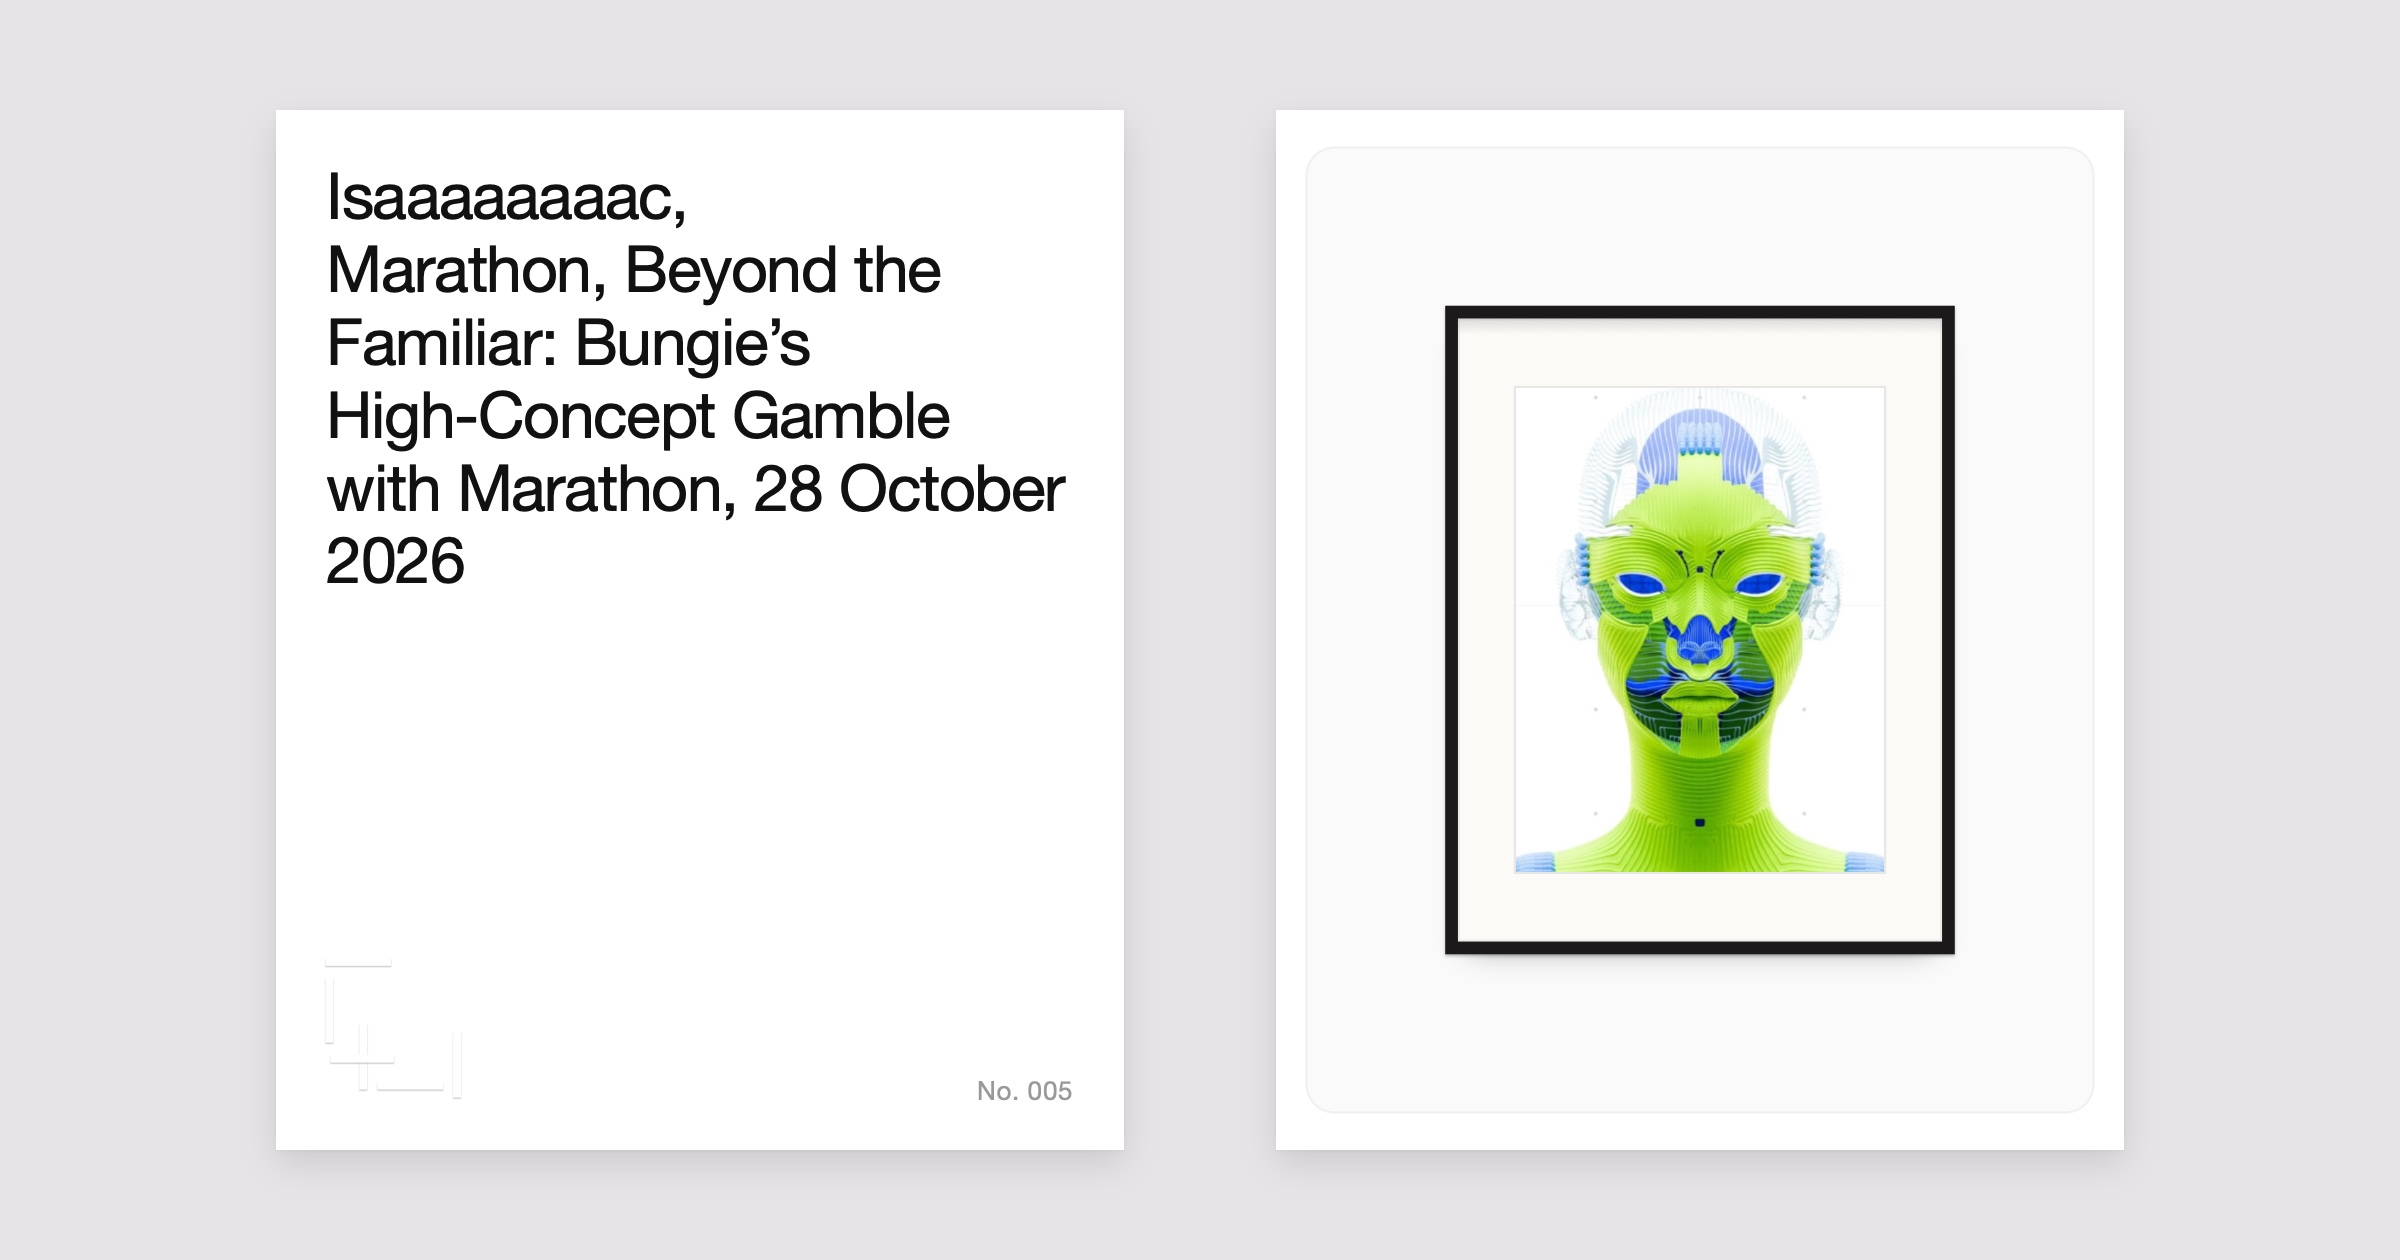
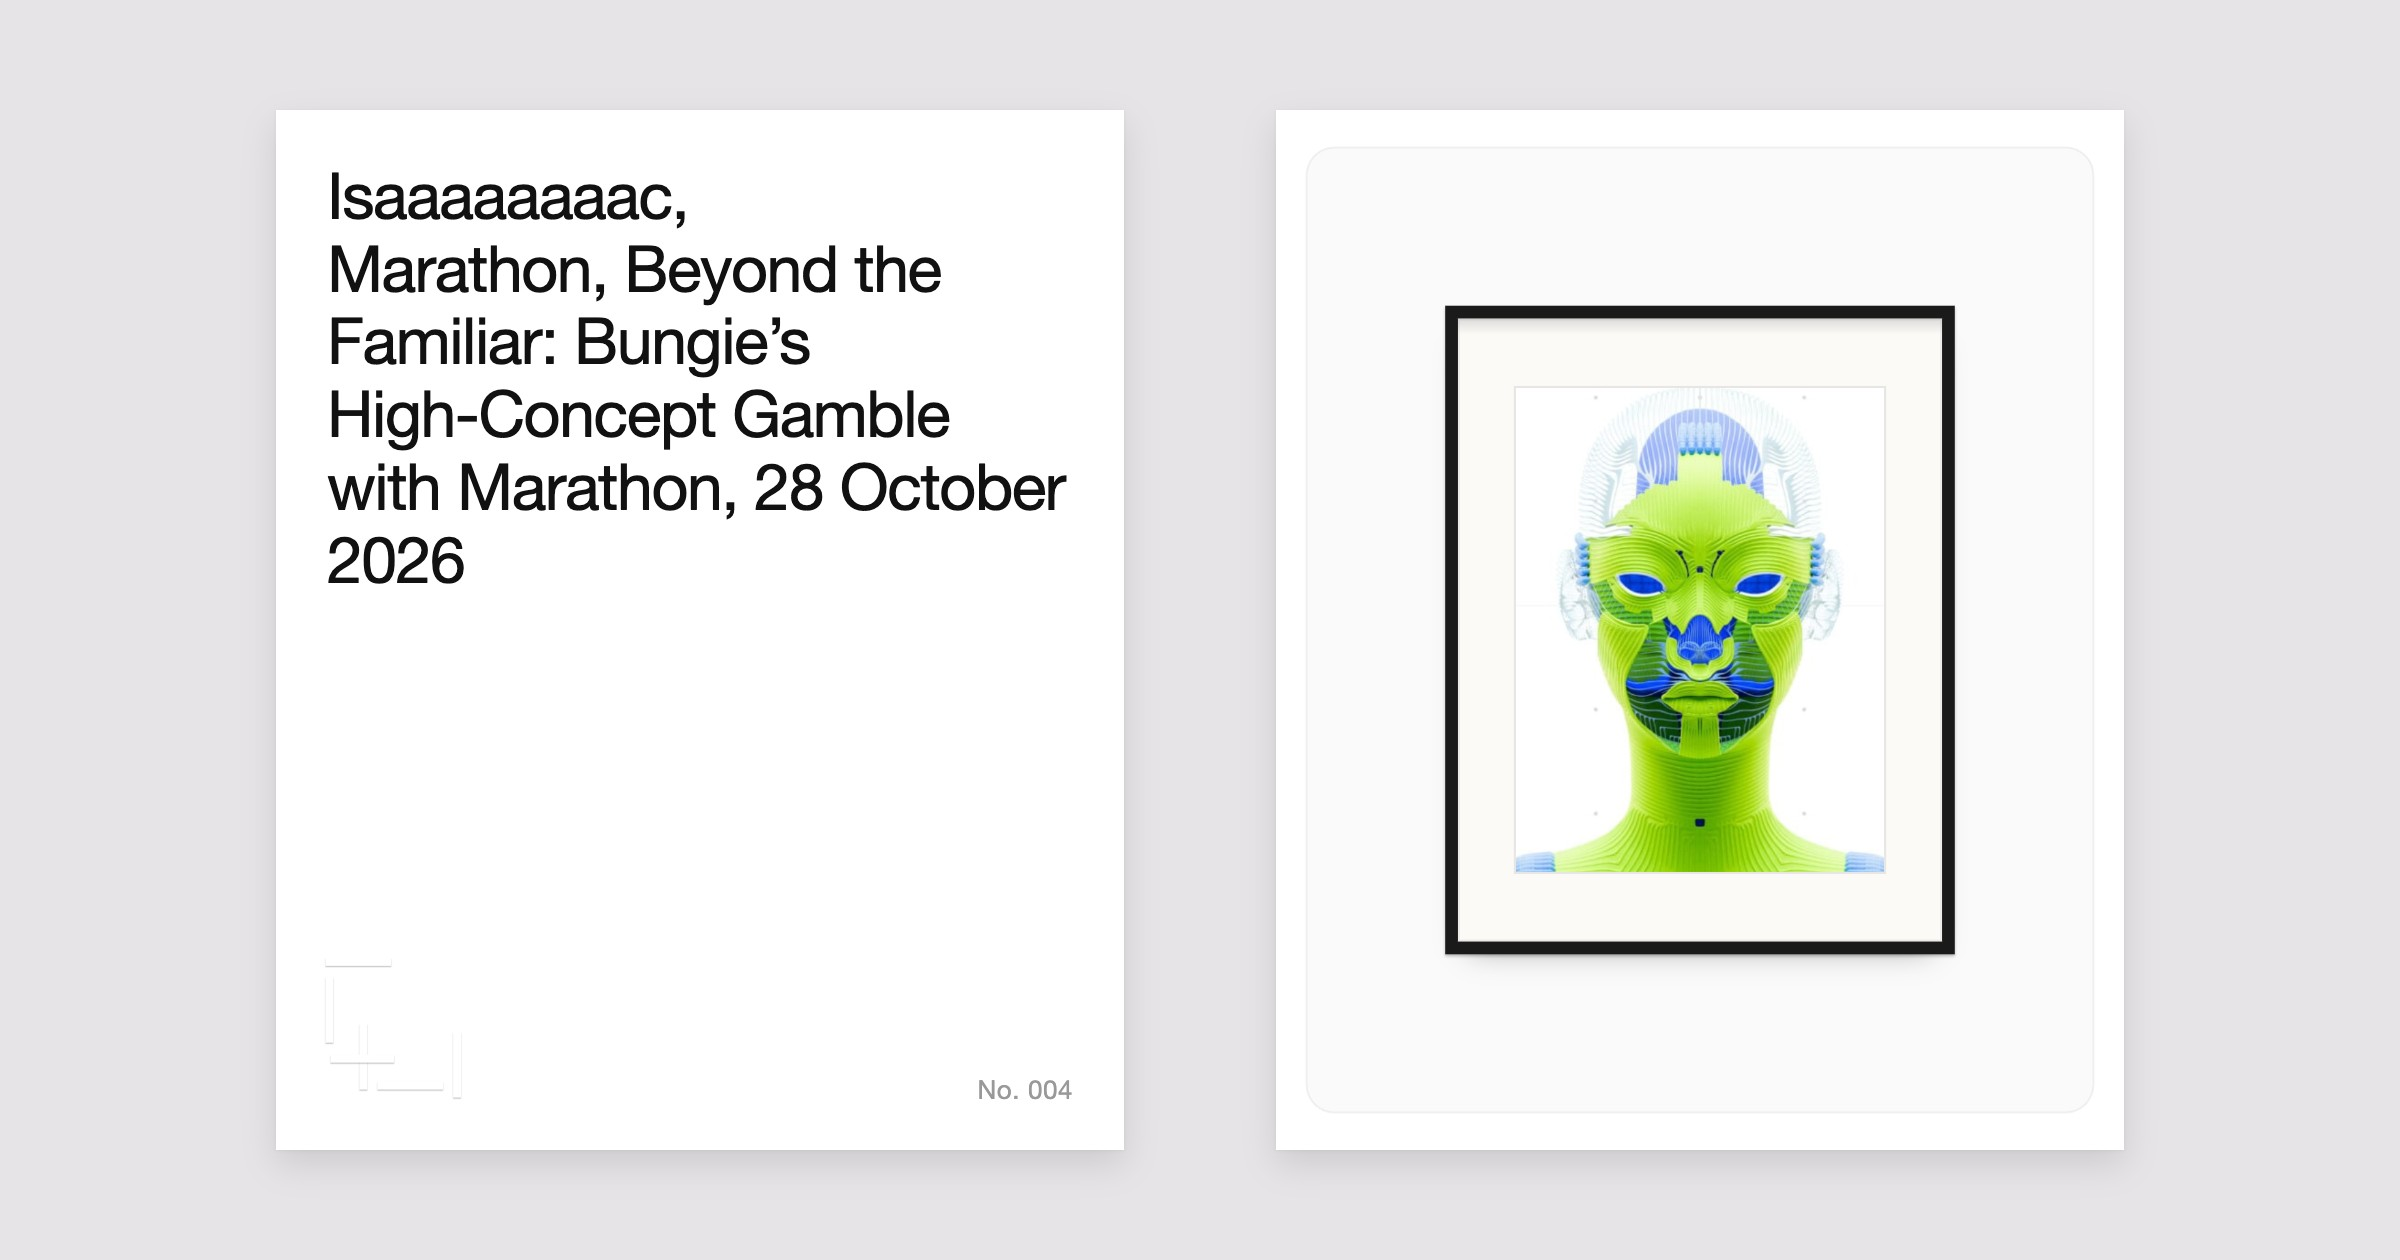
Curation: Marathon becomes No. 004 (the deleted Untitled had taken it); its preview redrawn; Studio gives each published preview picture a fresh address

diff --git a/curation/marathon/index.html b/curation/marathon/index.html
@@ -12,13 +12,13 @@
   <meta property="og:title" content="Marathon" />
   <meta property="og:description" content="Isaaaaaaaac — Beyond the Familiar: Bungie’s High-Concept Gamble with Marathon" />
   <meta property="og:url" content="https://buildtoberemembered.com/curation/marathon/" />
-  <meta property="og:image" content="https://buildtoberemembered.com/curation/media/marathon/share.jpg" />
+  <meta property="og:image" content="https://buildtoberemembered.com/curation/media/marathon/share.jpg?v=4" />
   <meta property="og:image:width" content="2400" />
   <meta property="og:image:height" content="1260" />
   <meta name="twitter:card" content="summary_large_image" />
   <meta name="twitter:title" content="Marathon" />
   <meta name="twitter:description" content="Isaaaaaaaac — Beyond the Familiar: Bungie’s High-Concept Gamble with Marathon" />
-  <meta name="twitter:image" content="https://buildtoberemembered.com/curation/media/marathon/share.jpg" />
+  <meta name="twitter:image" content="https://buildtoberemembered.com/curation/media/marathon/share.jpg?v=4" />
   <meta name="theme-color" content="#e6e4e6" />
   <link rel="icon" type="image/png" sizes="64x64" href="/assets/favicon-p3-dark.png?v=5" media="(prefers-color-scheme: light)" />
   <link rel="icon" type="image/png" sizes="64x64" href="/assets/favicon-p3-light.png?v=5" media="(prefers-color-scheme: dark)" />

diff --git a/admin/editor.js b/admin/editor.js
@@ -1607,7 +1607,7 @@
   var SHARE_RESERVED = ["media", "topics"];
   function sharePage(t) {
     var e = function (v) { return String(v || "").replace(/&/g, "&amp;").replace(/</g, "&lt;").replace(/>/g, "&gt;").replace(/"/g, "&quot;"); };
-    var slug = t.slug, url = "https://buildtoberemembered.com/curation/" + slug + "/", img = "https://buildtoberemembered.com/curation/media/" + slug + "/share.jpg";
+    var slug = t.slug, url = "https://buildtoberemembered.com/curation/" + slug + "/", img = "https://buildtoberemembered.com/curation/media/" + slug + "/share.jpg?v=" + Date.now().toString(36); // a fresh address per publish, so link previews pick up the new picture
     var desc = (t.desc || "").trim(), ogd = (t.author ? t.author + " — " : "") + desc;
     return '<!doctype html>\n<html lang="en">\n<head>\n  <meta charset="utf-8" />\n'
       + '  <!-- a topic\'s shareable address: link previews read the tags below, people are sent straight into the room -->\n'

diff --git a/admin/index.html b/admin/index.html
@@ -86,6 +86,6 @@
   <script src="/assets/macwin.js?v=4"></script>
   <script src="/assets/sharecard.js?v=2"></script>
   <script src="/assets/prints.js?v=2"></script>
-  <script src="/admin/editor.js?v=41"></script>
+  <script src="/admin/editor.js?v=42"></script>
 </body>
 </html>
